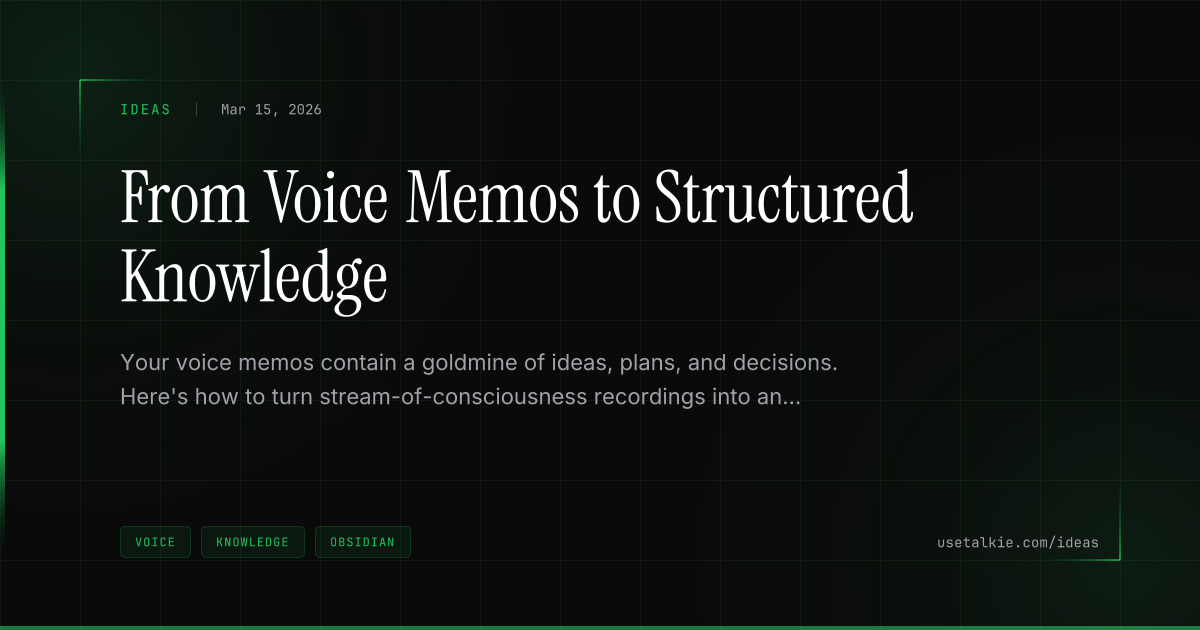
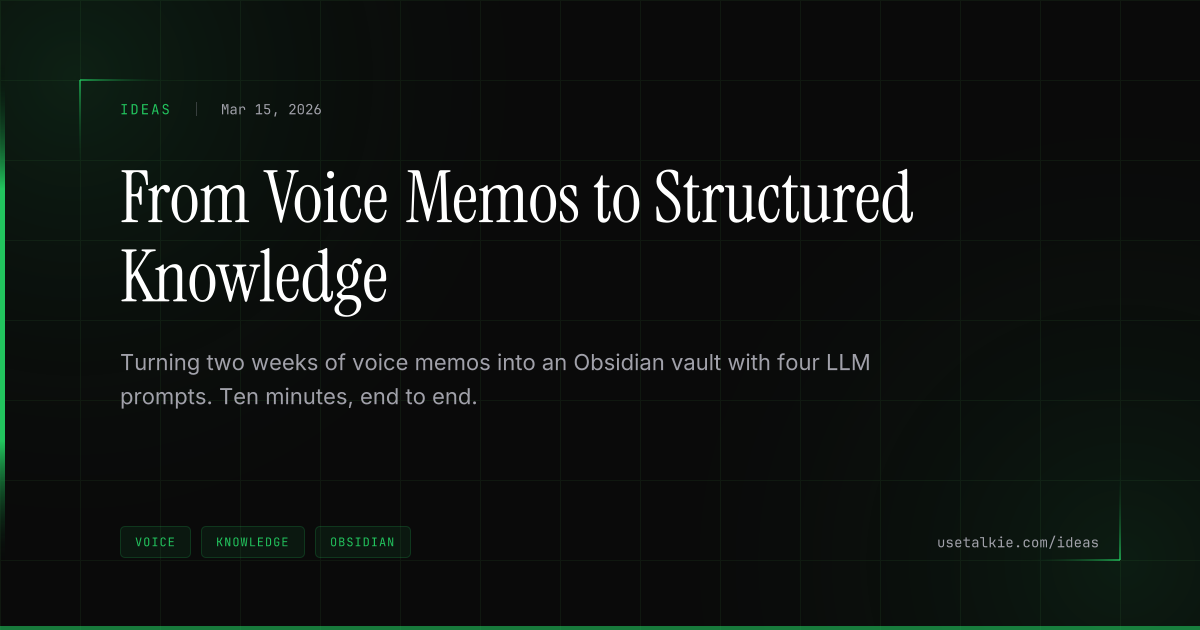
🔍 Prepare site for indexing

Changed region(s): [[0.0925, 0.5429, 0.74, 0.6635]]

diff --git a/app/go/app-store/layout.jsx b/app/go/app-store/layout.jsx
@@ -1,0 +1,12 @@
+export const metadata = {
+  title: 'Talkie on the App Store',
+  description: 'Redirecting to Talkie on the App Store.',
+  robots: {
+    index: false,
+    follow: true,
+  },
+}
+
+export default function Layout({ children }) {
+  return children
+}

diff --git a/app/features/page.jsx b/app/features/page.jsx
@@ -2,8 +2,12 @@ import FeaturesPage from '../../components/FeaturesPage'
 import MainShell from '../../components/MainShell'
 
 export const metadata = {
-  title: 'Workflows — Talkie',
+  title: 'Features — Talkie',
   description: 'Turn captured speech into drafts, tasks, files, and follow-up actions with private workflows on Mac.',
+  robots: {
+    index: false,
+    follow: true,
+  },
 }
 
 export default function Page() {

diff --git a/app/agents/page.jsx b/app/agents/page.jsx
@@ -4,6 +4,10 @@ import MainShell from '../../components/MainShell'
 export const metadata = {
   title: 'Talkie for Agents — Voice-initiated workflows',
   description: 'Talkie with agents. Build voice-initiated agents on Mac that turn speech into structured output.',
+  robots: {
+    index: false,
+    follow: true,
+  },
 }
 
 export default function Page() {

diff --git a/app/demo/page.jsx b/app/demo/page.jsx
@@ -4,6 +4,10 @@ import MainShell from '../../components/MainShell'
 export const metadata = {
   title: 'Demo - Talkie',
   description: 'See Talkie in action. Watch how voice-to-action works on your Mac with iPhone and Watch capture.',
+  robots: {
+    index: false,
+    follow: true,
+  },
   openGraph: {
     title: 'Demo - Talkie',
     description: 'See Talkie in action. Watch how voice-to-action works on your Mac.',

diff --git a/app/docs/tailscale/page.jsx b/app/docs/tailscale/page.jsx
@@ -3,6 +3,10 @@ import TailscalePage from '../../../components/docs/TailscalePage'
 export const metadata = {
   title: 'Tailscale Setup — Talkie Docs',
   description: 'Configure Tailscale for secure, peer-to-peer networking between your Mac and iPhone. No port forwarding required.',
+  robots: {
+    index: false,
+    follow: true,
+  },
   openGraph: {
     title: 'Tailscale Setup — Talkie Docs',
     description: 'Secure peer-to-peer networking between Mac and iPhone.',

diff --git a/app/ideas/[slug]/page.jsx b/app/ideas/[slug]/page.jsx
@@ -60,14 +60,16 @@ export function generateStaticParams() {
 export async function generateMetadata({ params }) {
   const { slug } = await params
   const idea = getIdeaBySlug(slug)
+  const url = `https://usetalkie.com/ideas/${slug}/`
 
   return {
     title: `${idea.title} - Talkie Ideas`,
     description: idea.description,
+    alternates: { canonical: url },
     openGraph: {
       title: `${idea.title} - Talkie Ideas`,
       description: idea.description,
-      url: `https://usetalkie.com/ideas/${slug}`,
+      url,
       siteName: 'Talkie',
       locale: 'en_US',
       type: 'article',

diff --git a/app/thank-you/page.jsx b/app/thank-you/page.jsx
@@ -4,6 +4,10 @@ import MainShell from '../../components/MainShell'
 export const metadata = {
   title: 'Thank You | Talkie',
   description: 'Thanks for signing up for early access to Talkie.',
+  robots: {
+    index: false,
+    follow: true,
+  },
 }
 
 export default function Page() {

diff --git a/app/tour/[slug]/page.jsx b/app/tour/[slug]/page.jsx
@@ -15,13 +15,17 @@ export async function generateMetadata({ params }) {
   const platformLabel = item.platform === 'iphone' ? 'iPhone' : item.platform === 'watch' ? 'Apple Watch' : 'Mac'
   const title = `${item.title} — Talkie Tour`
   const description = item.caption
+  const url = `https://usetalkie.com/tour/${slug}/`
 
   return {
     title,
     description,
+    alternates: { canonical: url },
     openGraph: {
       title,
       description,
+      url,
+      siteName: 'Talkie',
       images: [{ url: item.src, alt: `${item.title} — Talkie for ${platformLabel}` }],
       type: 'article',
     },

diff --git a/components/TourSlide.jsx b/components/TourSlide.jsx
@@ -158,12 +158,12 @@ export default function TourSlide({ slug }) {
               draggable={false}
             />
             <div className="border-t border-edge-faint bg-canvas-alt px-6 py-3">
-              <span
+              <h1
                 className="font-mono text-[9px] uppercase tracking-[0.24em] text-trace"
                 style={TRACE_GLOW_SOFT}
               >
                 · {item.title}
-              </span>
+              </h1>
               <p className="mt-1 text-[13px] leading-relaxed text-ink-dim">{item.caption}</p>
             </div>
           </div>

diff --git a/app/dictation/page.jsx b/app/dictation/page.jsx
@@ -5,10 +5,11 @@ export const metadata = {
   title: 'Talkie for Mac - Talk to your Mac',
   description: 'Capture a thought, shape a draft, search what you said, or kick off a workflow from your Mac. A mic is all you need.',
   keywords: ['dictation', 'voice to text', 'macos', 'workflow', 'local', 'privacy', 'productivity'],
+  alternates: { canonical: 'https://usetalkie.com/mac/' },
   openGraph: {
     title: 'Talkie for Mac - Talk to your Mac',
     description: 'Capture a thought, shape a draft, search what you said, or kick off a workflow from your Mac. A mic is all you need.',
-    url: 'https://usetalkie.com/dictation',
+    url: 'https://usetalkie.com/mac/',
     siteName: 'Talkie',
     images: [
       {

diff --git a/app/docs/api/page.jsx b/app/docs/api/page.jsx
@@ -3,9 +3,12 @@ import ApiPage from '../../../components/docs/ApiPage'
 export const metadata = {
   title: 'API Reference — Talkie Docs',
   description: 'API reference for Talkie. TalkieServer HTTP endpoints, URL schemes, and integration points.',
+  alternates: { canonical: 'https://usetalkie.com/docs/api/' },
   openGraph: {
     title: 'API Reference — Talkie Docs',
     description: 'HTTP endpoints, URL schemes, and integration points.',
+    url: 'https://usetalkie.com/docs/api/',
+    siteName: 'Talkie',
     images: [{ url: '/og/docs-api.png', width: 1200, height: 630 }],
   },
   twitter: {

diff --git a/app/docs/architecture/page.jsx b/app/docs/architecture/page.jsx
@@ -3,9 +3,12 @@ import ArchitecturePage from '../../../components/docs/ArchitecturePage'
 export const metadata = {
   title: 'Architecture — Talkie Docs',
   description: 'Deep dive into Talkie\'s multi-process architecture. Understand how Talkie, TalkieLive, TalkieEngine, and TalkieServer work together.',
+  alternates: { canonical: 'https://usetalkie.com/docs/architecture/' },
   openGraph: {
     title: 'Architecture — Talkie Docs',
     description: 'How Talkie, TalkieLive, TalkieEngine, and TalkieServer work together.',
+    url: 'https://usetalkie.com/docs/architecture/',
+    siteName: 'Talkie',
     images: [{ url: '/og/docs-architecture.png', width: 1200, height: 630 }],
   },
   twitter: {